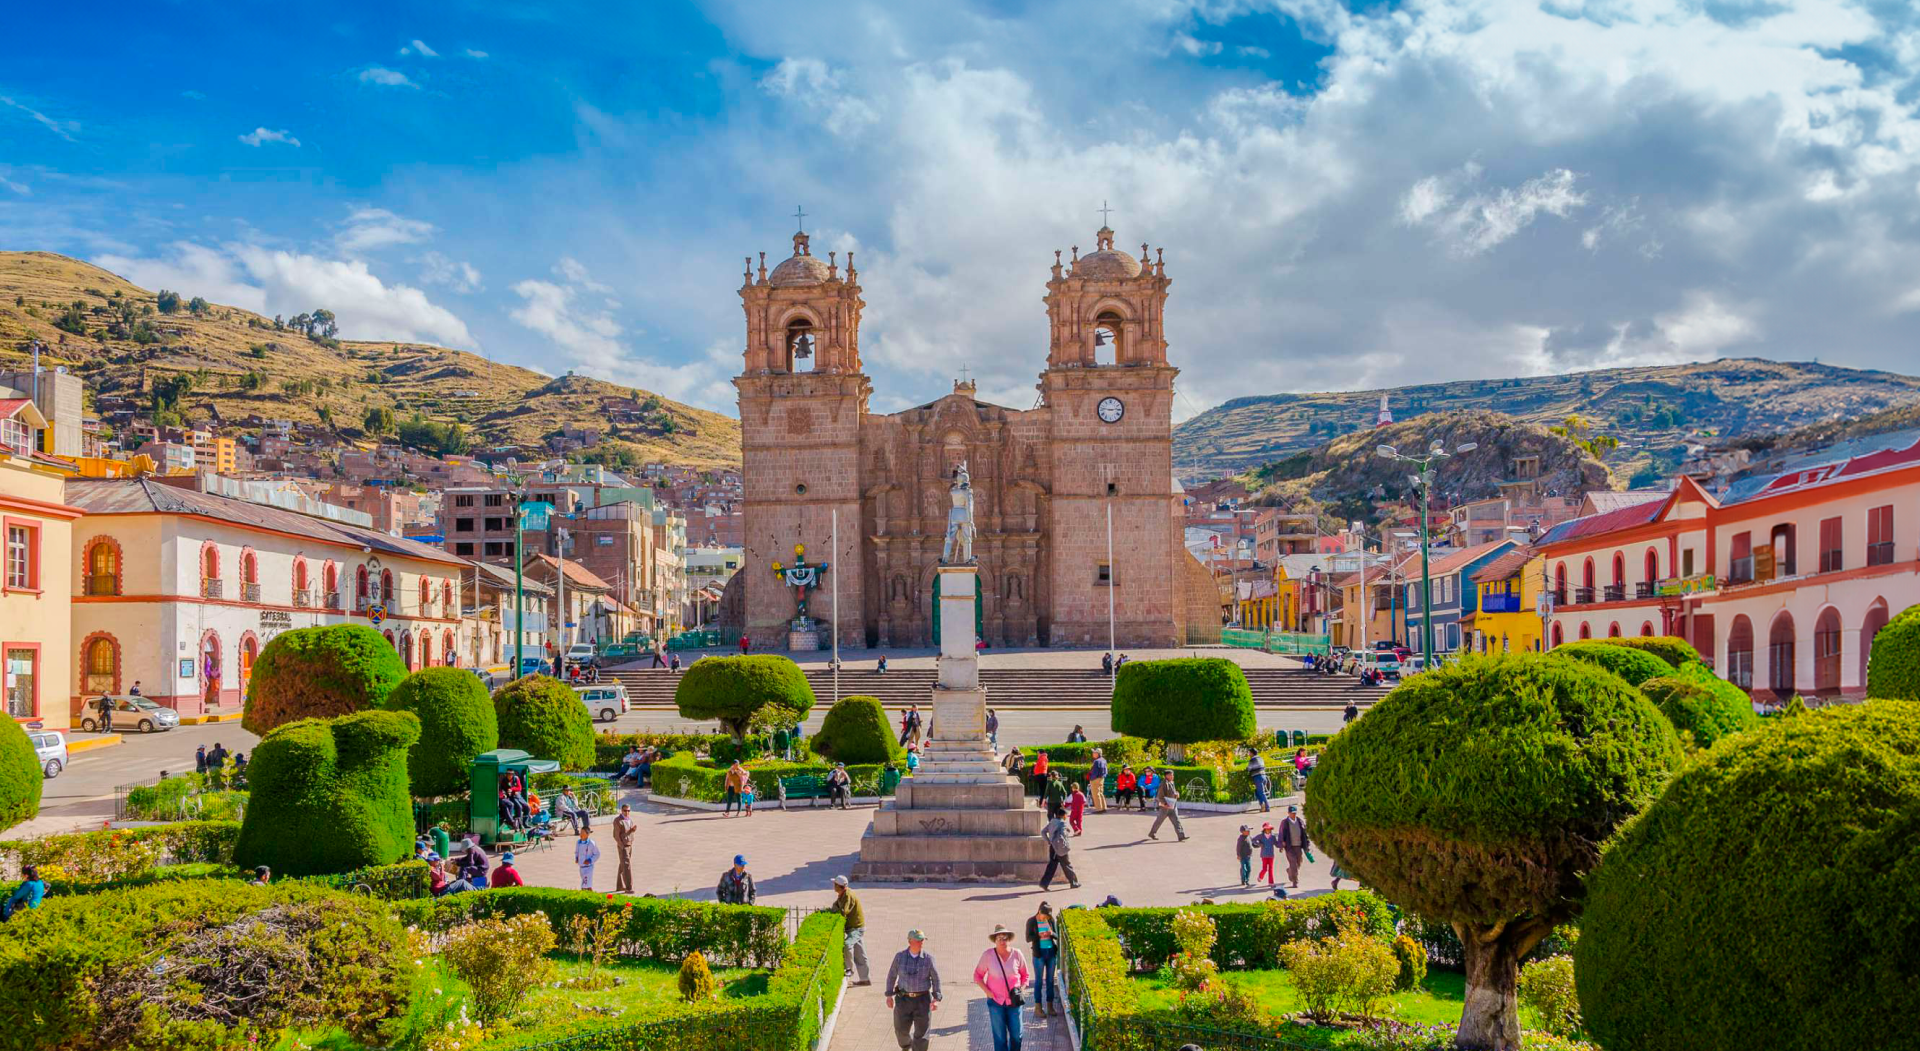
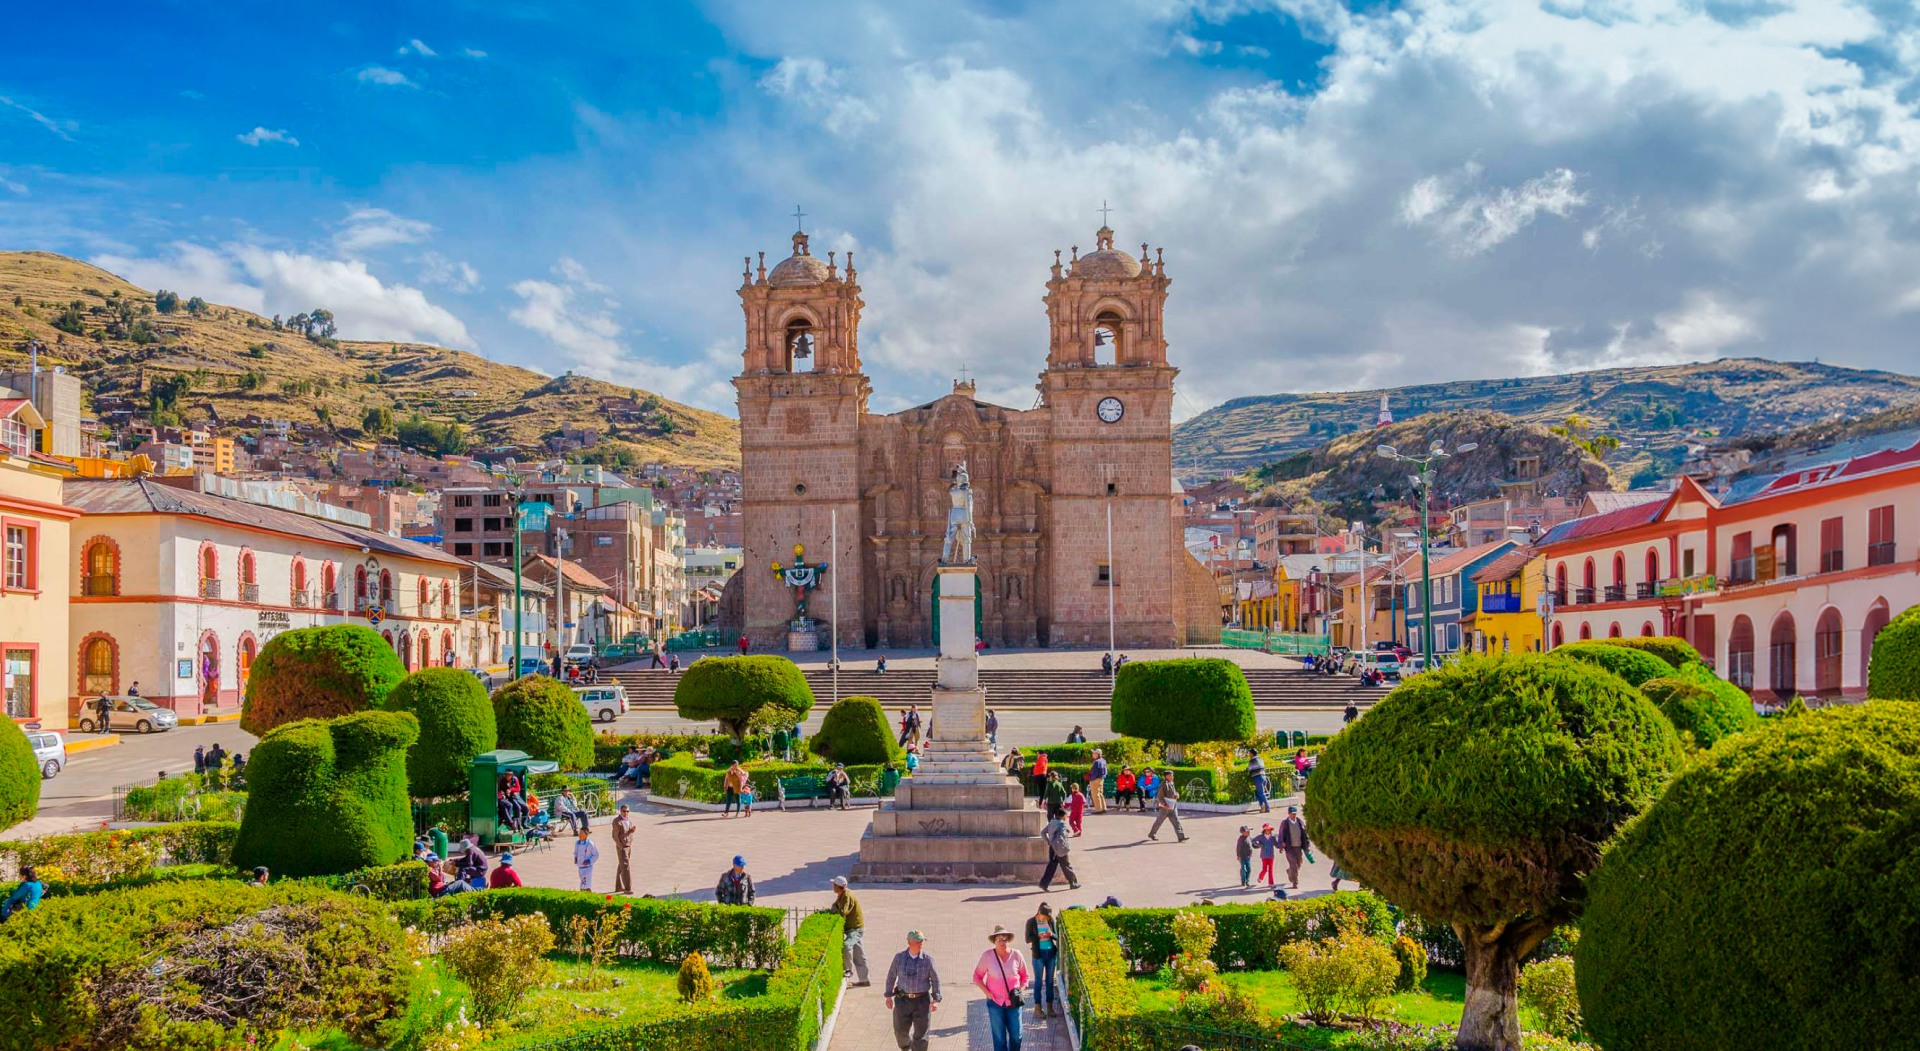
colores

diff --git a/app/(public)/page.tsx b/app/(public)/page.tsx
@@ -2,6 +2,7 @@ import CaroucelPeronsajes from "@/components/Home/CaroucelPeronsajes";
 import NavFondo from "@/components/Home/NavFondo";
 import NavTransparent from "@/components/Home/NavTransparent";
 import PopUp from "@/components/Home/PopUp";
+import Image from "next/image";
 
 export default function Home() {
 
@@ -23,28 +24,30 @@ export default function Home() {
 
   return (
     <>
-      <div className="h-screen bg-[url('/assets/images/fondo_home.png')] bg-center bg-cover"> {/* bg-gradient-to-bl from-[#00765A] to-[#021F73] */}
-        <div className="w-full h-full flex flex-col gap-5 pb-4">
-          {/* <NavFondo /> */}
-
+      <div className="h-screen bg-[url('/assets/images/fondo_home.png')] bg-center bg-cover relative">
+        <div className="bg-black/60 h-full w-full absolute top-0 left-0 z-0"></div>
+        <div className="w-full h-full flex flex-col gap-5 pb-4 relative z-10">
+          {/* bg-gradient-to-bl from-[#00765A] to-[#021F73] */}
           <div className="">
             <NavTransparent />
           </div>
-
           <div className="w-full max-w-[1280px] mx-auto h-full flex flex-col gap-5">
-            <div className="grid grid-cols-3 w-full h-[calc(100%-124px-20px)]">
+            <div className="grid grid-cols-3 w-full h-[calc(100%-124px-20px)] relative z-10">
               <CaroucelPeronsajes images={i_images} />
-              <div className="w-full h-full flex items-center justify-center">
+              <div className="w-full h-full flex items-center justify-center relative z-10">
                 <div className="grid grid-cols-2 gap-x-5 w-full h-auto">
                   <div className="w-full h-auto flex flex-col gap-3 justify-center items-center">
-                    <div className="w-full h-[100px] border-2"></div>
+                    <div className="w-full h-[80px]">
+                      <Image src={'/assets/images/logo_almuerzo_show.png'} unoptimized alt="" width={0} height={0} className="w-auto h-full" />
+                    </div>
                     <button className="w-fit inline-flex items-center justify-center px-8 py-2 font-sans font-semibold tracking-wide text-white bg-transparent border-2 border-[#FFEC00] hover:bg-[#FFEC00] transition-all duration-300 rounded-full">
                       Reservar
                     </button>
                   </div>
-
                   <div className="w-full h-auto flex flex-col gap-3 justify-center items-center">
-                    <div className="w-full h-[100px] border-2"></div>
+                    <div className="w-full h-[80px]">
+                      <Image src={'/assets/images/logo_noches_de_folklore.png'} unoptimized alt="" width={0} height={0} className="w-auto h-full" />
+                    </div>
                     <button className="w-fit inline-flex items-center justify-center px-8 py-2 font-sans font-semibold tracking-wide text-white bg-transparent border-2 border-[#FC228A] hover:bg-[#FC228A] transition-all duration-300 rounded-full">
                       Reservar
                     </button>
@@ -53,13 +56,12 @@ export default function Home() {
               </div>
               <CaroucelPeronsajes images={d_images} />
             </div>
-
           </div>
         </div>
-
       </div>
 
-      <div className="h-screen bg-[#1f1f1f]"></div>
+
+      <div className="h-screen bg-[#140107]"></div>
 
       <PopUp />
 

diff --git a/components/Panel/ListUser.tsx b/components/Panel/ListUser.tsx
@@ -26,33 +26,37 @@ export default function ListUser({ list, listRoles }: Props) {
         <>
             <div className='w-full flex flex-col gap-5'>
 
-                <h1 className='text-xl'>Lista de todos los usuarios</h1>
+                <div className='bg-black/40 px-5 py-3 rounded-lg'>
+                    <h1 className='text-xl'>Lista de todos los usuarios</h1>
+                </div>
 
-                <Table className='w-full dark'>
-                    <TableCaption>Lista de todos los usuarios</TableCaption>
-                    <TableHeader>
-                        <TableRow>
-                            <TableHead className="w-[100px]">ID</TableHead>
-                            <TableHead>DNI</TableHead>
-                            <TableHead>Email</TableHead>
-                            <TableHead>Username</TableHead>
-                            <TableHead>Accion</TableHead>
-                        </TableRow>
-                    </TableHeader>
-                    <TableBody>
-                        {list.map((user: ListUsers, index: number) => (
-                            <TableRow key={index}>
-                                <TableCell className="font-medium">{user.id}</TableCell>
-                                <TableCell>{user.dni}</TableCell>
-                                <TableCell>{user.email}</TableCell>
-                                <TableCell>{user.username}</TableCell>
-                                <TableCell className='flex flex-row gap-3 items-center'>
-                                    <EditUser usuario={user} listRoles={listRoles} />
-                                </TableCell>
+                <div className=' bg-black/40 px-5 py-3 rounded-lg'>
+                    <Table className='w-full dark'>
+                        <TableCaption>Lista de todos los usuarios</TableCaption>
+                        <TableHeader>
+                            <TableRow>
+                                <TableHead className="w-[100px]">ID</TableHead>
+                                <TableHead>DNI</TableHead>
+                                <TableHead>Email</TableHead>
+                                <TableHead>Username</TableHead>
+                                <TableHead>Accion</TableHead>
                             </TableRow>
-                        ))}
-                    </TableBody>
-                </Table>
+                        </TableHeader>
+                        <TableBody>
+                            {list.map((user: ListUsers, index: number) => (
+                                <TableRow key={index}>
+                                    <TableCell className="font-medium">{user.id}</TableCell>
+                                    <TableCell>{user.dni}</TableCell>
+                                    <TableCell>{user.email}</TableCell>
+                                    <TableCell>{user.username}</TableCell>
+                                    <TableCell className='flex flex-row gap-3 items-center'>
+                                        <EditUser usuario={user} listRoles={listRoles} />
+                                    </TableCell>
+                                </TableRow>
+                            ))}
+                        </TableBody>
+                    </Table>
+                </div>
             </div>
 
         </>

diff --git a/app/(panel)/layout.tsx b/app/(panel)/layout.tsx
@@ -3,6 +3,12 @@ import { getUserDataServer } from "@/lib/getUserDataServer";
 import Link from "next/link";
 import { redirect } from "next/navigation";
 
+import { FaHome, FaUsers } from "react-icons/fa";
+import { RiDiscountPercentFill } from "react-icons/ri";
+import { GrWorkshop } from "react-icons/gr";
+import { FaRegNewspaper } from "react-icons/fa6";
+import { MdEventAvailable } from "react-icons/md";
+
 async function PanelLayout({ children, }: Readonly<{ children: React.ReactNode; }>) {
 
     const data = await getUserDataServer();
@@ -13,22 +19,22 @@ async function PanelLayout({ children, }: Readonly<{ children: React.ReactNode; 
 
     return (
         <>
-            <div className="min-h-screen w-full bg-[#1f1f1f]">
+            <div className="min-h-screen w-full bg-[#140107]">
 
                 <UserProvider initialUserData={data}>
                     <div className="w-full h-full flex flex-row relative text-white">
                         <div className="h-full fixed w-[250px] ">
                             <div className={`h-full w-full flex flex-col gap-5 bg-black/40 `}>
-                                <div className="h-[70px] w-full flex justify-center items-center border-b-2">
+                                <div className="h-[70px] w-full flex justify-center items-center border-b-2 border-white/20">
                                     Brisas del titicaca
                                 </div>
                                 <div className="flex flex-col gap-3 p-5">
-                                    <Link href={'#'}>Home</Link>
-                                    <Link href={'#'}>Eventos</Link>
-                                    <Link href={'#'}>Promociones</Link>
-                                    <Link href={'#'}>Talleres</Link>
-                                    <Link href={'#'}>Noticias</Link>
-                                    <Link href={'/admin/usuarios'}>Usuarios</Link>
+                                    <Link href={'#'} className="w-full px-3 py-2 flex flex-row gap-2 items-center bg-black/70 rounded-lg"><FaHome /> Home</Link>
+                                    <Link href={'#'} className="w-full px-3 py-2 flex flex-row gap-2 items-center rounded-lg"><MdEventAvailable /> Eventos</Link>
+                                    <Link href={'#'} className="w-full px-3 py-2 flex flex-row gap-2 items-center rounded-lg"><RiDiscountPercentFill /> Promociones</Link>
+                                    <Link href={'#'} className="w-full px-3 py-2 flex flex-row gap-2 items-center rounded-lg"><GrWorkshop /> Talleres</Link>
+                                    <Link href={'#'} className="w-full px-3 py-2 flex flex-row gap-2 items-center rounded-lg"><FaRegNewspaper /> Noticias</Link>
+                                    <Link href={'/admin/usuarios'} className="w-full px-3 py-2 flex flex-row gap-2 items-center rounded-lg"><FaUsers /> Usuarios</Link>
                                 </div>
                             </div>
                         </div>

diff --git a/components/Panel/EditUser.tsx b/components/Panel/EditUser.tsx
@@ -20,6 +20,7 @@ import { API_URL } from "@/const";
 import { getAuthTokenClient } from "@/lib/getUserData";
 import { Checkbox } from "@/components/ui/checkbox"
 import { Roles } from "@/app/(panel)/admin/models/Roles";
+import { toast } from "react-toastify";
 
 
 interface Props {
@@ -49,6 +50,8 @@ export default function EditUser({ usuario, listRoles }: Props) {
 
         console.log(listUserRoles)
 
+        const editUserToast = toast.loading('Actualizando...')
+
         const userUpdate = await fetch(`${API_URL}/auth/update`, {
             method: 'PUT',
             headers: {
@@ -60,9 +63,26 @@ export default function EditUser({ usuario, listRoles }: Props) {
 
         const data = await userUpdate.json()
 
+        if (!userUpdate.ok) {
+            toast.update(editUserToast, {
+                render: 'Error al actualizar',
+                isLoading: false,
+                type: 'error',
+                autoClose: 2000
+            })
+            return null;
+        }
+
+        toast.update(editUserToast, {
+            render: 'Usuario actualizado',
+            isLoading: false,
+            type: 'success',
+            autoClose: 2000
+        })
+
     }
 
-    
+
 
     const rolCheckedChange = (rolId: number) => {
         if (listUserRoles.includes(rolId)) {

diff --git a/components/Home/PopUp.tsx b/components/Home/PopUp.tsx
@@ -18,7 +18,7 @@ export default function PopUp() {
     }, [isOpen]);
 
     return (
-        <div className="relative h-screen bg-gray-200">
+        <div className="">
             {isOpen && (
                 <>
                     <div className="fixed inset-0 bg-black bg-opacity-70 z-40" />
